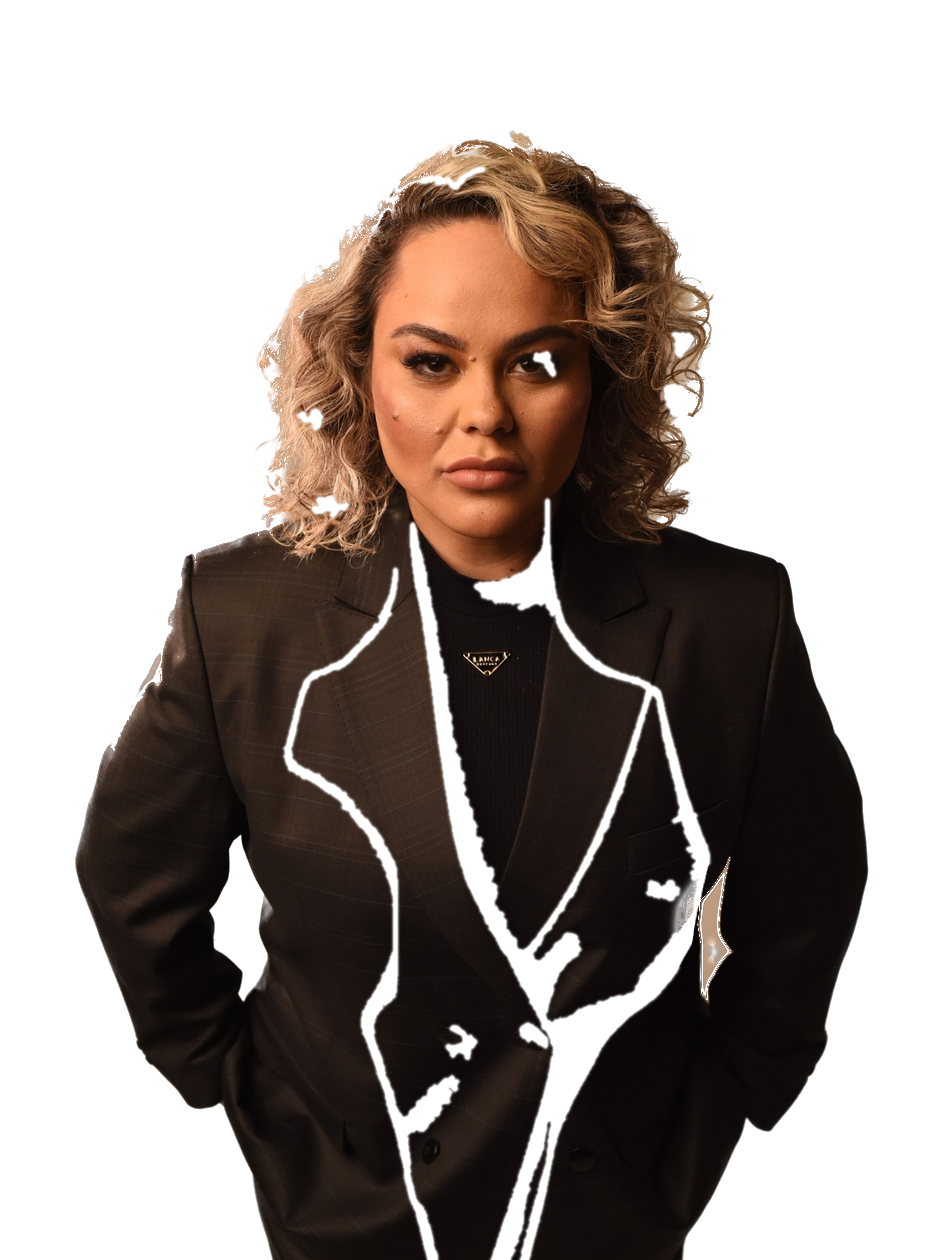
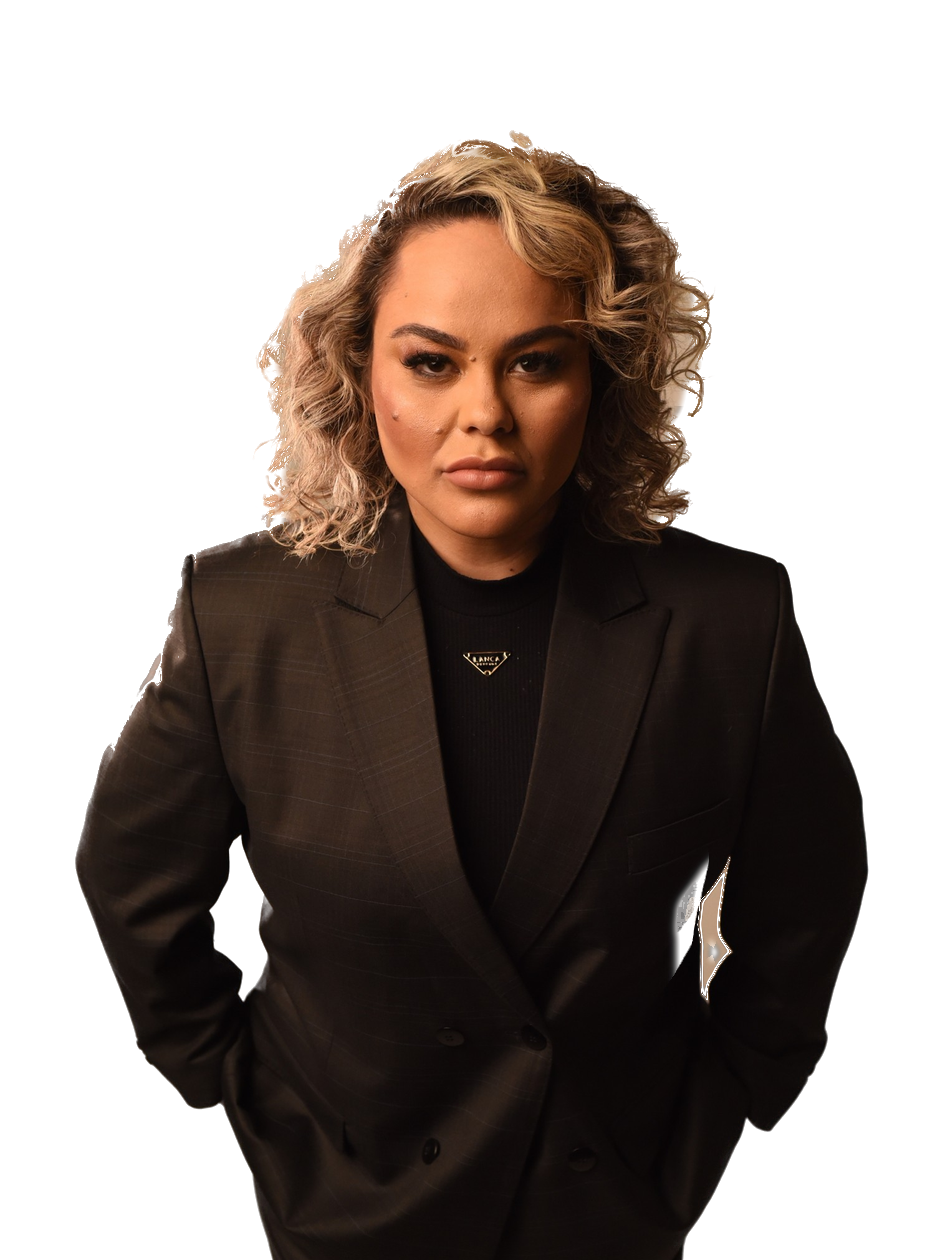
Recortes em andamento
Claude-Session: https://claude.ai/code/session_01XttdTbpYBzsaA5vhN67mRE

diff --git a/black-vitalicia/src/recortar.py b/black-vitalicia/src/recortar.py
@@ -11,7 +11,7 @@ ROOT = '/home/user/Geral/black-vitalicia'
 OUT = ROOT + '/recortes'
 MODEL = '/tmp/models/u2net_human_seg.onnx'
 MAXSIDE = 1400
-BG_LO, BG_HI, CHOKE, CORE, GAP_D = 0.04, 0.11, 0.2, 22, 0.07
+BG_LO, BG_HI, CHOKE, CORE, GAP_D = 0.04, 0.11, 0.2, 22, -1
 # fracao da altura da foto onde o enquadramento termina (cintura); topo opcional
 CROP = {'02': .74, '03': .80, '04': .88, '05': .93, '06': .88, '08': .86, '11': .88,
         '12': .85, '14': .88, '17': .90, '25': .90, '20': .82, '39': .78}
